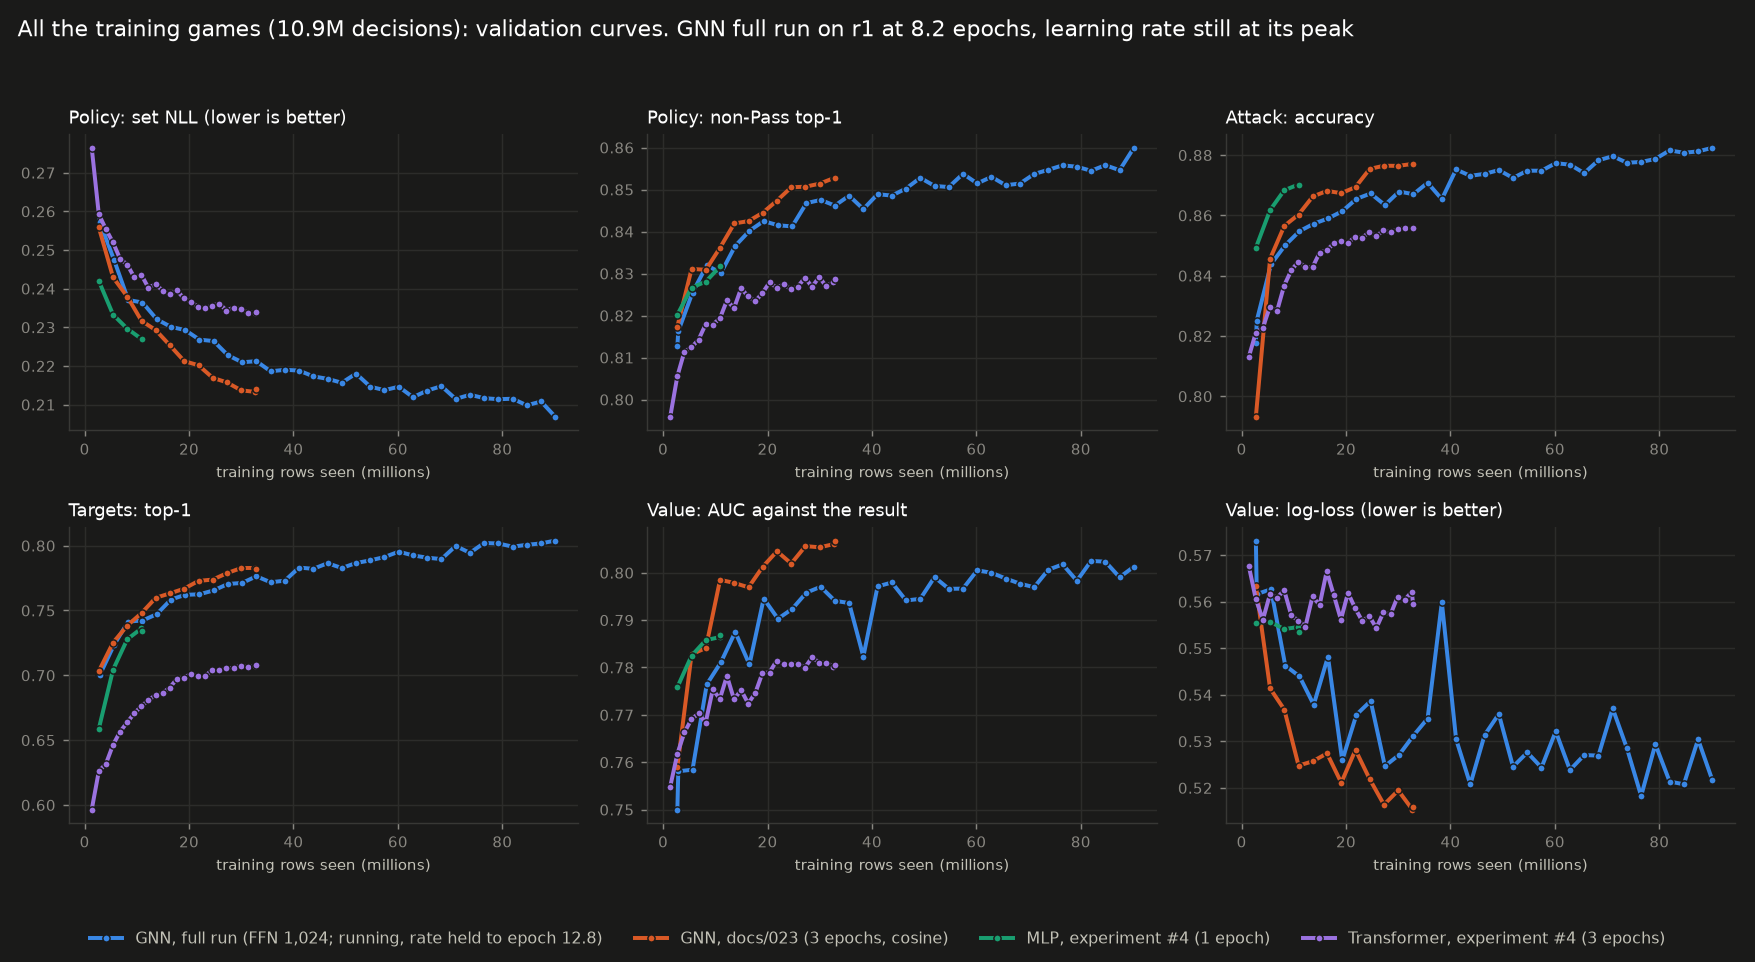
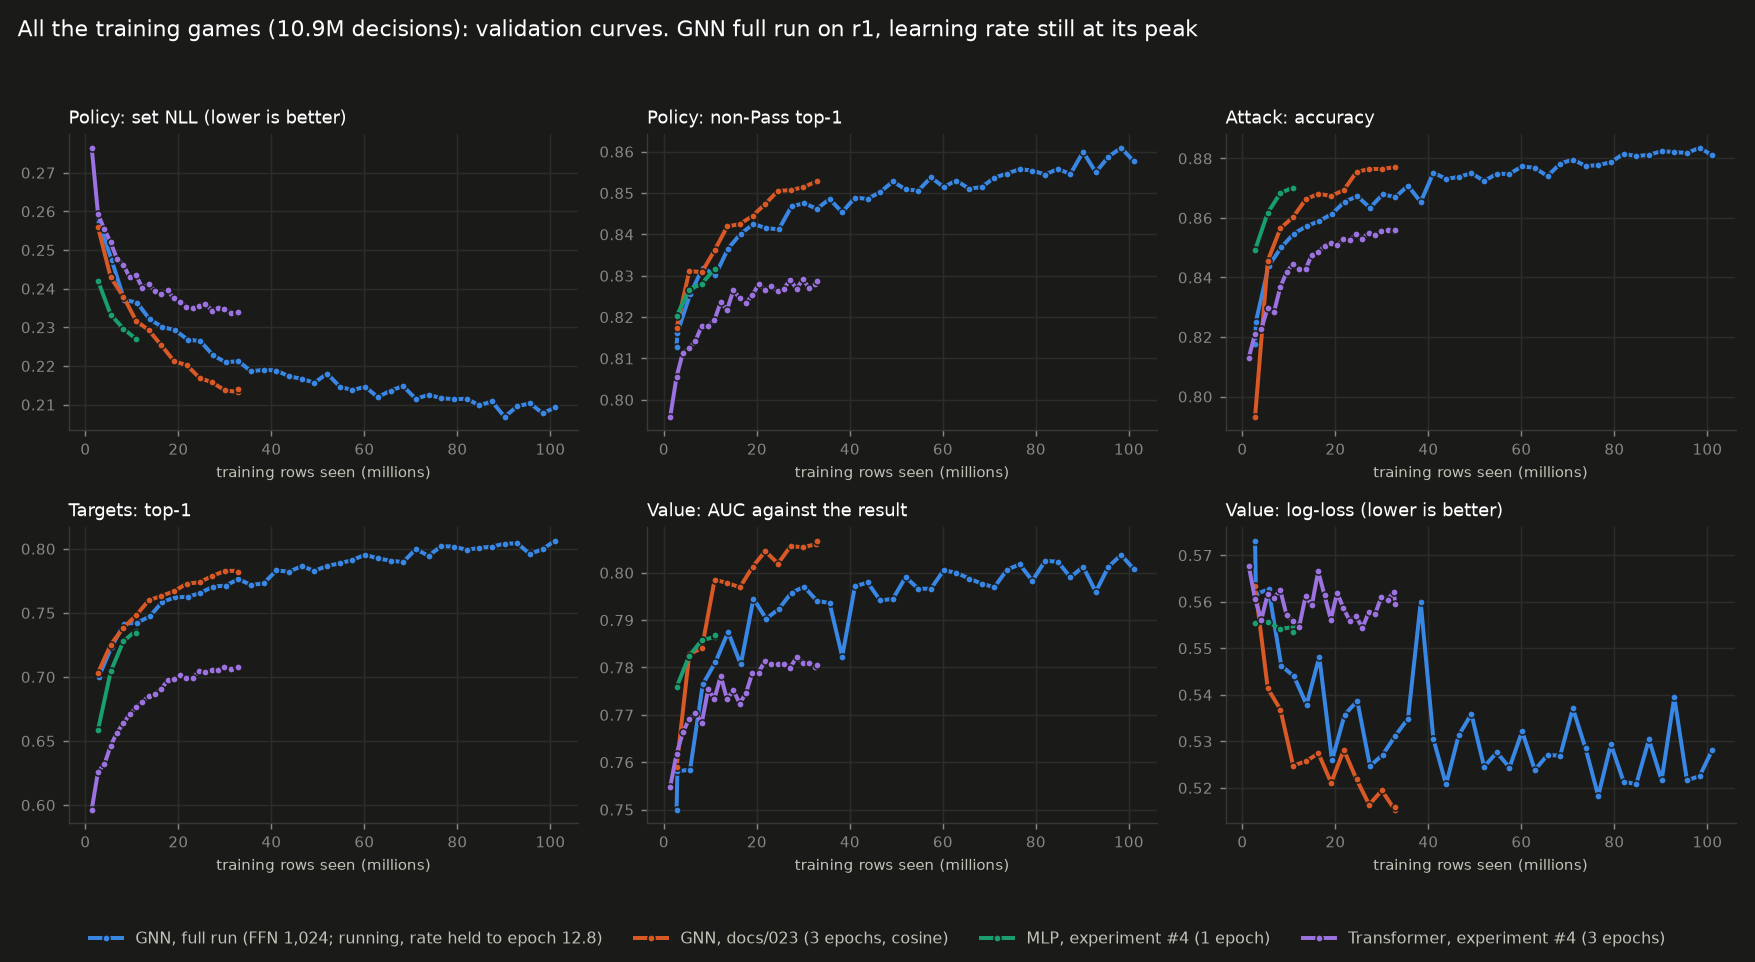
Docs/024: the full run's curves at 9.2 epochs

diff --git a/docs/024-gnn-local-layers-and-games.md b/docs/024-gnn-local-layers-and-games.md
@@ -172,7 +172,7 @@ contiguous runs. Resumed from its checkpoint: GPU 0 at 57-78%, ~6,500 states a s
 
 ![Six panels of validation curves against training rows seen on all the training games: set NLL, non-Pass top-1, attack accuracy, target top-1, value AUC and value log-loss. The GNN full run (blue, 4.5 epochs so far, learning rate at its peak) reaches set NLL ~0.216 and top-1 ~0.853 at 49M rows; docs/023's GNN (orange, 3 epochs, cosine) ends at 0.213; the MLP (green, 1 epoch) ends at 0.227 at 11M rows and the transformer (purple, 3 epochs) at 0.234. The full run's value curves are noisier and below docs/023's.](img/024-full-curves-light.png)
 
-*Figure 3. Validation curves on all the training games (9:20 PM PT, 8.2 epochs): the full run against docs/023's GNN
+*Figure 3. Validation curves on all the training games (9:55 PM PT, 9.2 epochs): the full run against docs/023's GNN
 and experiment #4's MLP and transformer, scored on experiment #4's rows for the latter two.*
 
 - **Both GNNs sit well below the flat networks at every equal number of rows seen**: at 11M rows (one epoch) the
